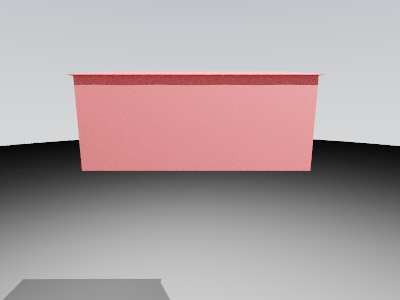
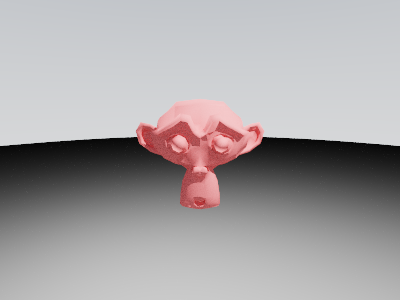
Textures

Changed region(s): [[0.18, 0.21, 0.81, 0.72], [0.0, 0.93, 0.45, 1.0]]

diff --git a/Silmaril/src/Silmaril/Textures/ImageTexture.cpp b/Silmaril/src/Silmaril/Textures/ImageTexture.cpp
@@ -1,0 +1,116 @@
+#include "ImageTexture.hpp"
+
+#include <stb_image.h>
+
+#include <PathConfig.inl>
+
+namespace Silmaril {
+
+    namespace {
+
+        std::filesystem::path s_ResPath(PathConfig::ResDir);
+
+        glm::vec3 SampleBilinear(const std::vector<u8>& data, i32 width, i32 height, i32 channels, glm::vec2 uv)
+        {
+            if (data.empty()) return glm::vec3(1.0f, 0.0f, 1.0f);
+
+            uv = uv - glm::floor(uv);
+            uv.y = 1.0f - uv.y;
+
+            f32 u = uv.x * width - 0.5f;
+            f32 v = uv.y * height - 0.5f;
+
+            i32 x0 = static_cast<i32>(glm::floor(u));
+            i32 y0 = static_cast<i32>(glm::floor(v));
+            i32 x1 = x0 + 1;
+            i32 y1 = y0 + 1;
+
+            f32 uRatio = u - x0;
+            f32 vRatio = v - y0;
+            f32 uOpp = 1.0f - uRatio;
+            f32 vOpp = 1.0f - vRatio;
+
+            auto GetPixel = [&](i32 x, i32 y) -> glm::vec3 {
+                x = std::clamp(x, 0, width - 1);
+                y = std::clamp(y, 0, height - 1);
+
+                usize idx = (x + y * width) * channels;
+                f32 r = data[idx + 0] / 255.0f;
+                f32 g = (channels > 1) ? data[idx + 1] / 255.0f : r;
+                f32 b = (channels > 2) ? data[idx + 2] / 255.0f : ((channels > 1) ? 0.0f : r);
+
+                return glm::vec3(r, g, b);
+            };
+
+            return
+                (GetPixel(x0, y0) * uOpp + GetPixel(x1, y0) * uRatio) * vOpp
+                + (GetPixel(x0, y1) * uOpp + GetPixel(x1, y1) * uRatio) * vRatio;
+        }
+    
+    }
+
+    ImageTexture::ImageTexture(const std::string& filename, bool sRGB)
+    {
+        std::string path = (s_ResPath / filename).string();
+
+        u8* data = stbi_load(path.c_str(), &m_Width, &m_Height, &m_Channels, 3);
+        if (data) {
+            m_Channels = 3;
+            m_Data.resize(m_Width * m_Height * m_Channels);
+
+            if (sRGB) {
+                for (i32 i = 0; i < m_Width * m_Height * m_Channels; ++i) {
+                    f32 val = data[i] / 255.0f;
+                    val = glm::pow(val, 2.2f);
+                    m_Data[i] = static_cast<u8>(val * 255.0f);
+                }
+            } else {
+                std::memcpy(m_Data.data(), data, m_Data.size());
+            }
+
+            stbi_image_free(data);
+            std::println("Loaded texture: {} ({}, {})", filename, m_Width, m_Height);
+        } else {
+            std::println(std::cerr, "Failed to load texture: {}", filename);
+
+            m_Width = 1;
+            m_Height = 1;
+            m_Channels = 3;
+            m_Data = { 255, 0, 255 };
+        }
+    }
+
+    glm::vec3 ImageTexture::Evaluate(const SurfaceInteraction& interaction) const
+    {
+        return SampleBilinear(m_Data, m_Width, m_Height, m_Channels, interaction.uv);
+    }
+
+    ScalarImageTexture::ScalarImageTexture(const std::string& filename)
+    {
+        std::string path = (s_ResPath / filename).string();
+
+        u8* data = stbi_load(path.c_str(), &m_Width, &m_Height, &m_Channels, 1);
+        if (data) {
+            m_Channels = 1;
+            m_Data.resize(m_Width * m_Height);
+            std::memcpy(m_Data.data(), data, m_Data.size());
+
+            stbi_image_free(data);
+            std::println("Loaded scalar texture: {}, ({}, {})", filename, m_Width, m_Height);
+        } else {
+            std::println(std::cerr, "Failed to load scalar texture: {}", filename);
+
+            m_Width = 1;
+            m_Height = 1;
+            m_Channels = 1;
+            m_Data = { 255 };
+        }
+    }
+
+    f32 ScalarImageTexture::Evaluate(const SurfaceInteraction& interaction) const
+    {
+        glm::vec3 value = SampleBilinear(m_Data, m_Width, m_Height, m_Channels, interaction.uv);
+        return value.r;
+    }
+
+}

diff --git a/Silmaril/src/Silmaril/Textures/ImageTexture.hpp b/Silmaril/src/Silmaril/Textures/ImageTexture.hpp
@@ -1,0 +1,39 @@
+#pragma once
+
+#include <glm/glm.hpp>
+
+#include "Texture.hpp"
+
+namespace Silmaril {
+
+    class ImageTexture final : public Texture<glm::vec3>
+    {
+    public:
+        ImageTexture(const std::string& filename, bool sRGB = true);
+        virtual ~ImageTexture() = default;
+
+        virtual glm::vec3 Evaluate(const SurfaceInteraction& interaction) const override;
+
+    private:
+        std::vector<u8> m_Data;
+        i32 m_Width { 0 };
+        i32 m_Height { 0 };
+        i32 m_Channels { 0 };
+    };
+
+    class ScalarImageTexture final : public Texture<f32>
+    {
+    public:
+        ScalarImageTexture(const std::string& filename);
+        virtual ~ScalarImageTexture() = default;
+
+        virtual f32 Evaluate(const SurfaceInteraction& interaction) const override;
+
+    private:
+        std::vector<u8> m_Data;
+        i32 m_Width { 0 };
+        i32 m_Height { 0 };
+        i32 m_Channels { 0 };
+    };
+
+}

diff --git a/Silmaril/src/Silmaril/Main.cpp b/Silmaril/src/Silmaril/Main.cpp
@@ -90,9 +90,9 @@ int main()
 
     RandomWalkIntegrator integrator(camera, sampler, depth);
 
-    auto startRender = std::chrono::high_resolution_clock::now();
+    auto startRender = std::chrono::steady_clock::now();
     integrator.Render(scene);
-    auto endRender = std::chrono::high_resolution_clock::now();
+    auto endRender = std::chrono::steady_clock::now();
     std::chrono::duration<double> timeRender = endRender - startRender;
 
     std::println("Total Execution Time (Render + Save): {:.4f} seconds", timeRender.count());

diff --git a/Silmaril/src/Silmaril/Textures/SolidTexture.hpp b/Silmaril/src/Silmaril/Textures/SolidTexture.hpp
@@ -1,0 +1,27 @@
+#pragma once
+
+#include "Texture.hpp"
+
+namespace Silmaril {
+
+    template <typename T>
+    class SolidTexture final : public Texture<T>
+    {
+    public:
+        SolidTexture(const T& value)
+            : m_Value(value)
+        {
+        }
+
+        virtual ~SolidTexture() = default;
+
+        virtual T Evaluate(const SurfaceInteraction& interaction) const override
+        {
+            return m_Value;
+        }
+
+    private:
+        T m_Value;
+    };
+
+}

diff --git a/Silmaril/src/Silmaril/Integrators/RandomWalkIntegrator.cpp b/Silmaril/src/Silmaril/Integrators/RandomWalkIntegrator.cpp
@@ -26,7 +26,7 @@ namespace Silmaril {
         std::mutex printMutex;
 
         std::println("Integrator: Starting parallel render loop...");
-        auto loopStart = std::chrono::high_resolution_clock::now();
+        auto loopStart = std::chrono::steady_clock::now();
 
         std::for_each(std::execution::par, yCoords.begin(), yCoords.end(),
             [&](u32 y) {

diff --git a/Silmaril/src/Silmaril/Textures/Texture.hpp b/Silmaril/src/Silmaril/Textures/Texture.hpp
@@ -1,0 +1,16 @@
+#pragma once
+
+#include "Silmaril/Containers/Interaction.hpp"
+
+namespace Silmaril {
+
+    template <typename T>
+    class Texture
+    {
+    public:
+        virtual ~Texture() = default;
+
+        virtual T Evaluate(const SurfaceInteraction& interaction) const = 0;
+    };
+
+}

diff --git a/Silmaril/src/Platform/STBImpl.cpp b/Silmaril/src/Platform/STBImpl.cpp
@@ -1,3 +1,5 @@
-
+#define STB_IMAGE_IMPLEMENTATION
 #define STB_IMAGE_WRITE_IMPLEMENTATION
+
+#include <stb_image.h>
 #include <stb_image_write.h>
